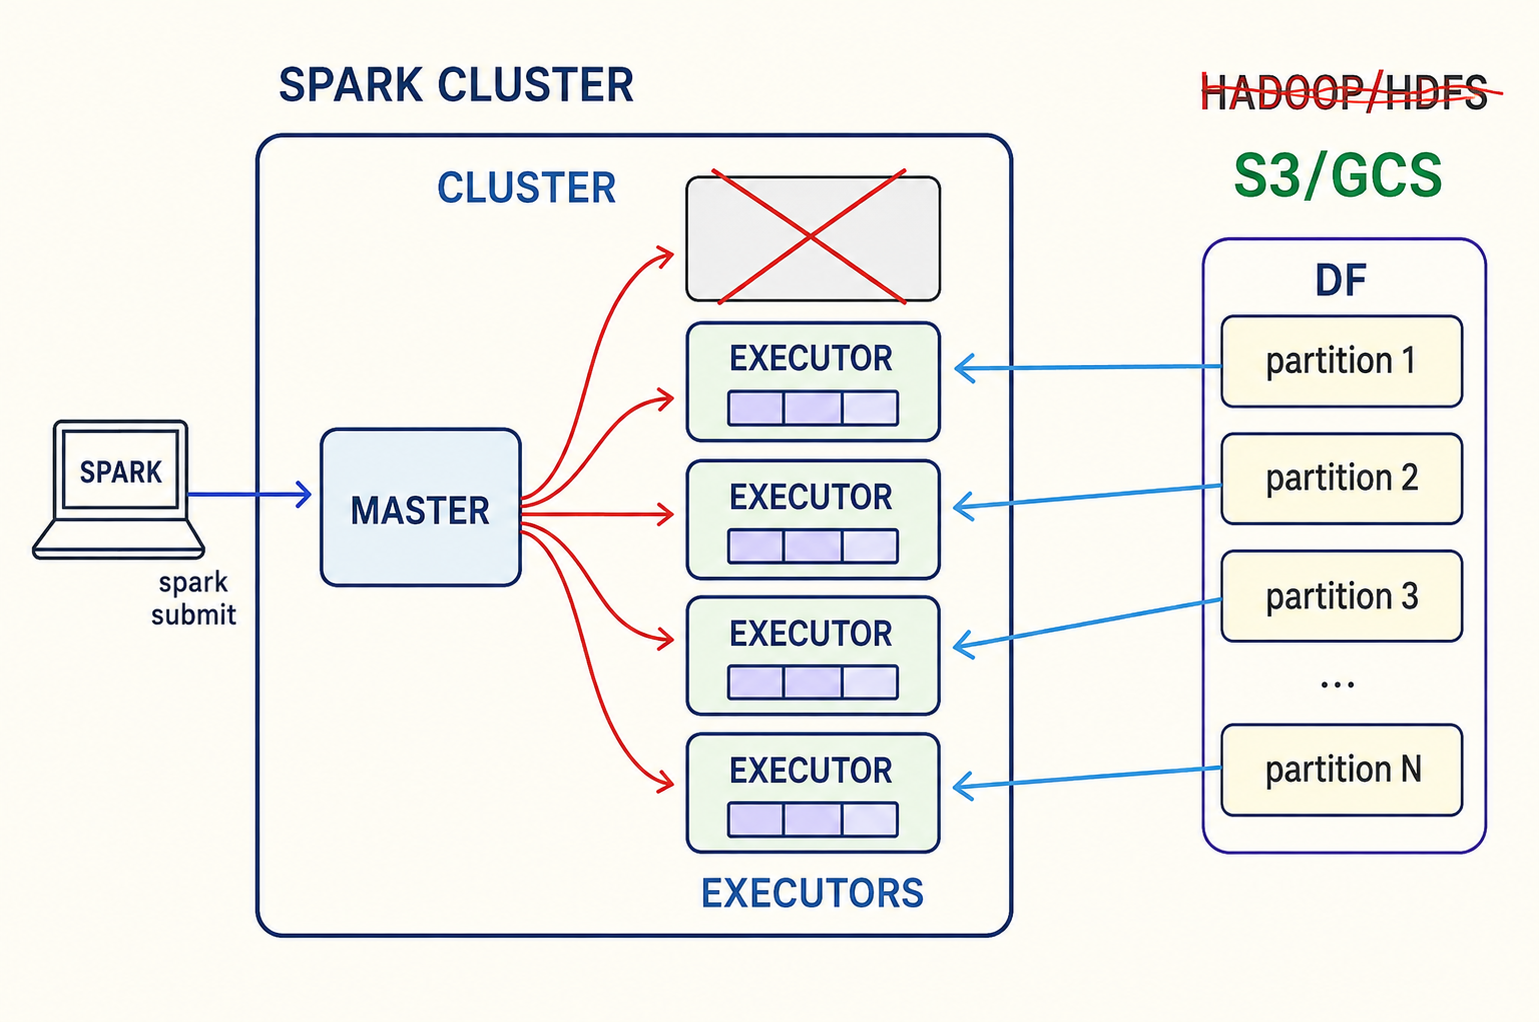
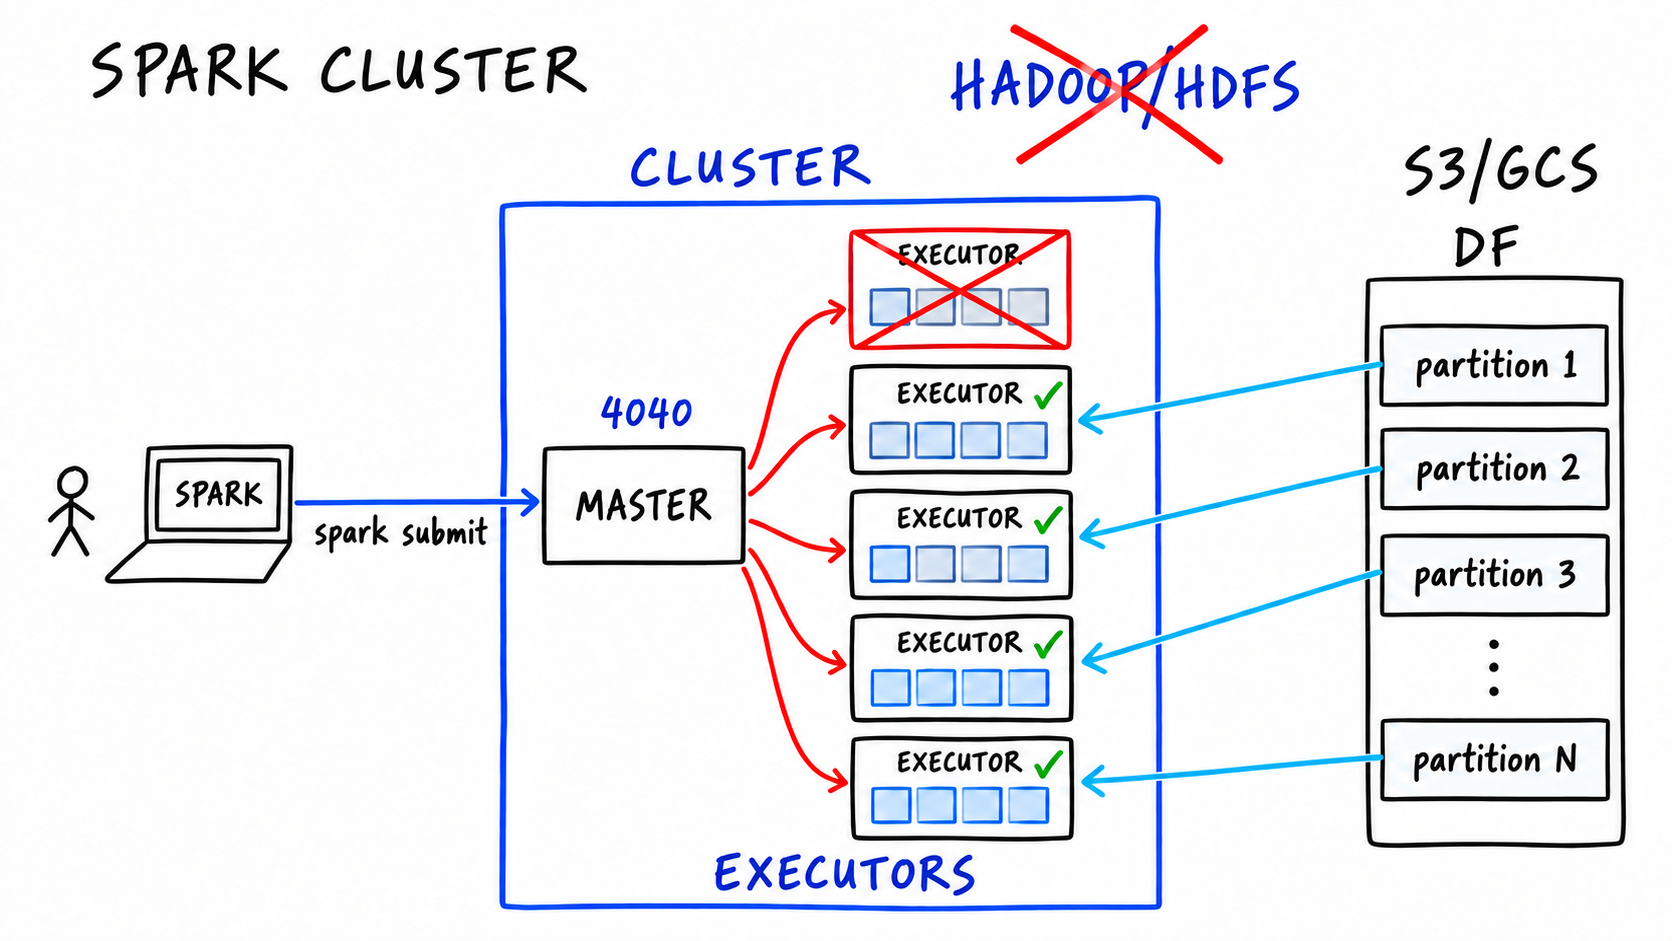
Repair DE batch lesson 08-10 illustration provenance

Changed region(s): [[0.0, 0.0308, 0.9981, 0.9862], [0.7173, 0.1541, 0.7485, 0.1849]]

diff --git a/cohorts/2027/06-batch/2026-09-09-follow-up-provenance.md b/cohorts/2027/06-batch/2026-09-09-follow-up-provenance.md
@@ -178,3 +178,72 @@ it is not the crop used for provenance or generation.
 | Former published target | Original JPG SHA-256 | Bounded crop SHA-256 | Former output SHA-256 | Decision |
 |---|---|---|---|---|
[1 lines of base64/hex data omitted]
+
+## Lessons 08–10 provenance-blocked illustration repairs — 2026-09-09
+
+These six repairs close the remaining provenance blocks in lessons 08–10 of
+06-batch. Every source JPG is the retained native `640×360` video frame. A
+fresh bounded crop was made at native resolution, with no resize, Lanczos,
+sharpening, or text edit, and the original JPG plus that crop were sent to
+the built-in imagegen workflow as Image 1 and Image 2. The final published
+PNG is byte-identical to the listed final imagegen artifact. The Spark UI
+asset remains a raster because the UI layout, job rows, counts, and progress
+bars are instructional evidence; replacing it with a Markdown table would
+not preserve that structure. The validation renders are display-only and
+remain outside the repository at
+`/tmp/de-batch-06-batch-repair-608-2026-09-09/`.
+
+| Published target | Original JPG (SHA-256) | Fresh native crop (geometry; SHA-256) | Final imagegen artifact (path; SHA-256) | Published output (SHA-256; native → simulated 608px) | C2PA / semantic validation |
+|---|---|---|---|---|---|
[6 lines of base64/hex data omitted]
+
+The exact native crop commands were:
+
+```bash
+# ImageMagick 6.9.12-98 Q16 x86_64 18038; no scaling or sharpening
+convert 08-anatomy-of-a-spark-cluster-01-spark-submit-master.jpg \
+  -crop 446x330+54+3 +repage -strip -define png:exclude-chunk=tIME \
+  08-anatomy-of-a-spark-cluster-01-spark-submit-master-imagegen-crop.png
+convert 08-anatomy-of-a-spark-cluster-02-executors-failure.jpg \
+  -crop 446x330+54+3 +repage -strip -define png:exclude-chunk=tIME \
+  08-anatomy-of-a-spark-cluster-02-executors-failure-imagegen-crop.png
+convert 08-anatomy-of-a-spark-cluster-03-executors-pull-partitions.jpg \
+  -crop 446x330+54+3 +repage -strip -define png:exclude-chunk=tIME \
+  08-anatomy-of-a-spark-cluster-03-executors-pull-partitions-imagegen-crop.png
+convert 08-anatomy-of-a-spark-cluster-04-s3-gcs-instead-of-hdfs.jpg \
+  -crop 446x330+54+3 +repage -strip -define png:exclude-chunk=tIME \
+  08-anatomy-of-a-spark-cluster-04-s3-gcs-instead-of-hdfs-imagegen-crop.png
+convert 09-groupby-in-spark-03-reshuffling-whiteboard.jpg \
+  -crop 446x330+54+3 +repage -strip -define png:exclude-chunk=tIME \
+  09-groupby-in-spark-03-reshuffling-whiteboard-imagegen-crop.png
+convert 10-joins-in-spark-04-broadcast-exchange.jpg \
+  -crop 640x216+0+24 +repage -strip -define png:exclude-chunk=tIME \
+  10-joins-in-spark-04-broadcast-exchange-imagegen-crop.png
+```
+
+The final prompts used the original JPG and crop as factual/layout
+references, required a clean high-resolution redraw, and prohibited simple
+enlargement, sharpening, invented text, reversed arrows, faces, camera
+circles, browser/editor chrome, cursors, selections, watermarks, and
+post-generation text edits. The 08-02 base candidate
+`exec-ebc519b9-61e3-4e84-b6b8-ba3162bd4124.png` was superseded by the listed
+targeted edit after native inspection found one stray blank rectangle. The
+08-04 base candidate
+`exec-81040435-4bdf-42b1-9df7-f43598fe6e34.png` was superseded by the listed
+targeted edit after native inspection found crossed/mislanded storage arrows.
+Both base generations had already used the required original-JPG-plus-crop
+input pair. No resized or sharpened derivative was used as a published asset.
+
+The six display-only validation renders were generated without sharpening:
+
+```bash
+convert <published.png> -filter Triangle -resize '608x608>' <validation.png>
+```
+
+Native and simulated 608px inspections passed for all six finals; the
+validation PNGs are not source or published assets.
